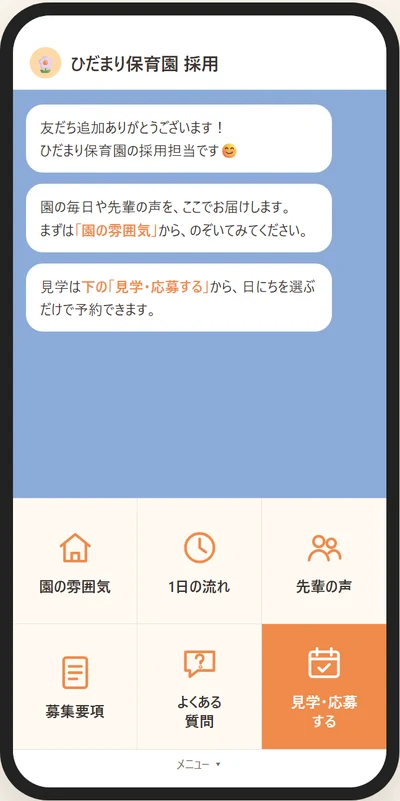
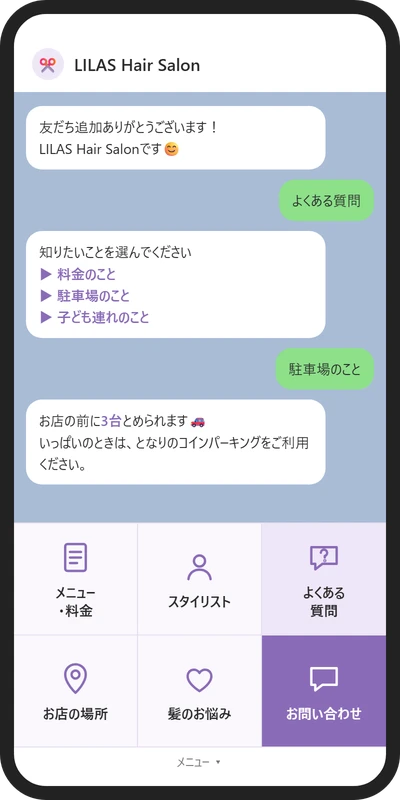
近所向けページのLINEカードを、システムに興味がない人にも伝わる言葉に書き直し、写真をヘアサロン版（ボタンを押すとすぐ答えが返る画面）にする。困りごと・できることの項目も日常の言葉にする

diff --git a/local.html b/local.html
@@ -20,7 +20,7 @@
   <link rel="preconnect" href="https://fonts.gstatic.com" crossorigin>
   <link rel="icon" href="images/brand/tomoru-mark.svg?v=4" type="image/svg+xml">
   <link rel="stylesheet" href="https://fonts.googleapis.com/css2?family=Zen+Maru+Gothic:wght@400;500;700&display=swap">
-  <link rel="stylesheet" href="local.css?v=5">
+  <link rel="stylesheet" href="local.css?v=6">
   <!-- Googleアナリティクス（GA4） -->
   <script async src="https://www.googletagmanager.com/gtag/js?id=G-FF0GN3Z2HY"></script>
   <script>
@@ -60,7 +60,7 @@
           <li>Excelの表がごちゃごちゃして、<span class="nobr">家族や人に頼めない</span></li>
           <li>お客さんの写真やメモが、<span class="nobr">スマホのあちこちに散らばっている</span></li>
           <li>お店や商品のよさを、<span class="nobr">ネットでうまく伝えられていない</span></li>
-          <li>LINE公式アカウントを作ったけれど、<span class="nobr">うまく使えていない</span></li>
+          <li>お客さんから同じことを何度も聞かれて、<span class="nobr">そのたびに手が止まる</span></li>
         </ul>
         <p class="check-after"><span class="nobr">ひとつでも当てはまったら、</span><span class="nobr">それを楽にできるかもしれません。</span><br><span class="nobr">下で、実際に作ったものと一緒に</span><span class="nobr">ご紹介します。</span></p>
       </div>
@@ -184,19 +184,20 @@
             </div>
           </article>
 
-          <!-- LINE公式アカウントの構築（課題作品と、保育園向けに作った構成案の見本。どちらも架空のお店・園） -->
+          <!-- お店のLINE（エルメの課題で作った架空のヘアサロン。画像は実際の画面をもとにしたイメージ） -->
           <article class="case case--line">
             <div class="case-cover">
-              <img class="case-shot shot-phone" src="images/covers/line-salon.webp" alt="LINE公式アカウントの画面の見本（あいさつとメニュー）" loading="lazy" decoding="async">
+              <img class="case-shot shot-phone" src="images/covers/line-salon.webp" alt="お店のLINEの画面。よくある質問のボタンを押すと、すぐに答えが返ってくる" loading="lazy" decoding="async">
             </div>
             <div class="case-body">
-              <p class="case-who">エルメ（L Message）の課題で</p>
-              <h3>お店のLINE公式アカウント</h3>
-              <p class="case-before"><span>よくある困りごと</span>LINE公式アカウントを作ったけれど、あいさつやメニューが初めのままで、お客さんに使ってもらえていない。</p>
-              <p class="case-after"><span>作ったもの</span>友だち追加したときのあいさつ、押しやすいメニュー、ボタンを押すと答えが返ってくる案内、予約までの流れ。架空のヘアサロンで一人で作り、実際に動かして確かめました（画面の写真は、保育園向けに作った見本です）。</p>
+              <p class="case-who">お店向けに作った見本</p>
+              <h3>代わりに答えてくれるお店のLINE</h3>
+              <p class="case-before"><span>よくある困りごと</span>「駐車場ある？」「いくら？」と同じことを何度も聞かれる。手が離せなくて、電話にもLINEにもすぐ出られない。</p>
+              <p class="case-after"><span>こうできます</span>お客さんが画面の下のボタンを押すだけで、LINEがすぐに答えてくれます。お店が忙しいときも、夜でも大丈夫。友だちになってくれた人には、お礼のあいさつも自動で届きます。</p>
+              <p class="case-note">架空のヘアサロンで作った見本です。友だちになると、スマホでそのまま試せます。</p>
               <div class="case-links">
               <a href="works/line-salon.html" class="case-link">くわしく見る →</a>
-              <a href="https://lin.ee/txxWBkz" class="case-link case-link--try" target="_blank" rel="noopener">友だち追加して試す</a>
+              <a href="https://lin.ee/txxWBkz" class="case-link case-link--try" target="_blank" rel="noopener">LINEで試してみる</a>
               </div>
             </div>
           </article>
@@ -237,7 +238,7 @@
           <li><span class="can-icon" aria-hidden="true">🛒</span><span class="can-text">商品を紹介する<b>販売ページ</b></span></li>
           <li><span class="can-icon" aria-hidden="true">📷</span><span class="can-text"><span class="nobr">写真で残す</span><span class="nobr"><b>作業や施術の記録</b></span></span></li>
           <li><span class="can-icon" aria-hidden="true">🔔</span><span class="can-text"><span class="nobr"><b>LINEへのお知らせ</b>や、</span><span class="nobr">表への自動まとめ</span></span></li>
-          <li><span class="can-icon" aria-hidden="true">💬</span><span class="can-text"><span class="nobr"><b>LINE公式アカウント</b>の</span><span class="nobr">あいさつ・メニュー・予約の案内</span></span></li>
+          <li><span class="can-icon" aria-hidden="true">💬</span><span class="can-text"><span class="nobr">お客さんの質問に、</span><span class="nobr"><b>LINEが自動で返事</b></span></span></li>
         </ul>
         <p class="text small">ここにないことでも大丈夫です。「こんなことできる？」と聞いてもらえれば、できるかどうかお答えします。</p>
       </div>

diff --git a/local.css b/local.css
@@ -248,6 +248,14 @@ b {
   line-height: 1.75;
 }
 
+/* 見本であることなどの小さな補足 */
+.case-note {
+  margin: 0 0 10px;
+  font-size: 0.82rem;
+  line-height: 1.6;
+  color: var(--ink-soft);
+}
+
 /* 「困っていたこと」「こうなりました」のラベル */
 .case-before span:not(.tail-keep),
 .case-after span:not(.tail-keep) {
